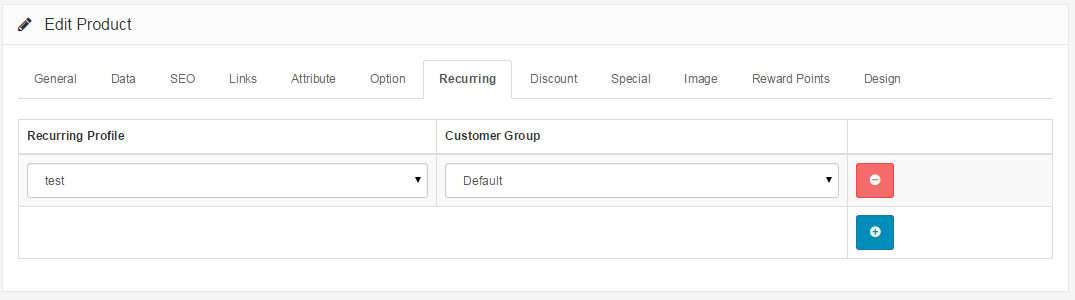
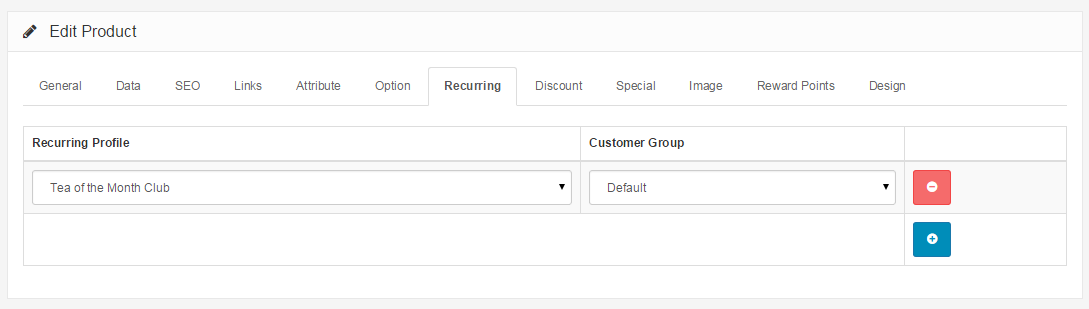
Recurring Tab updated

diff --git a/user-manual/catalog/products/recurring.md b/user-manual/catalog/products/recurring.md
@@ -1,9 +1,15 @@
 Recurring
 =========
 
-Recurring Tab
----------
+Applying Your Profile to a Product
+----------------------------------
 
-Coming soon...
+Once you have created your customer group and added your selected customers to that group, you are ready to apply your profile to a product.
+
+Open your **Catalog > Products ** page and choose a product. Click Edit, then click the **Profile** tab.
 
 ![products recurring backend](_images/products-recurring.png)
+
+Click **Add Profile**, and you will see dropdown boxes appear that will allow you to choose which Profile and which Customer Group to apply to that particular product. When you are finished, click **Save**.
+
+Your new Profile has now been applied to your selected customers for your selected product.
